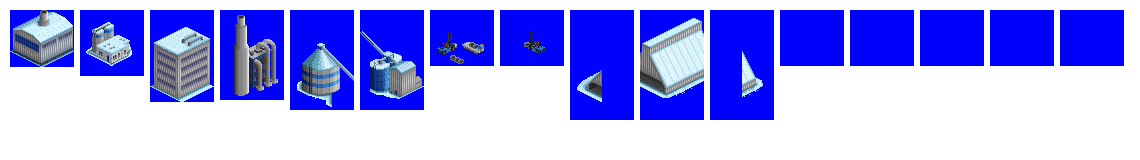
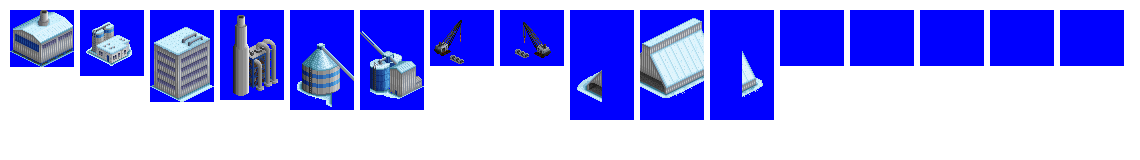
Feature: date sensitive graphics for Alumnium Plant (#4661)

Changed region(s): [[0.3684, 0.1562, 0.4912, 0.375], [0.3991, 0.125, 0.4298, 0.1875]]

diff --git a/src/industries/aluminium_plant.py b/src/industries/aluminium_plant.py
@@ -38,7 +38,8 @@ industry = Industry(id='aluminium_plant',
                     name='string(STR_IND_ALUMINIUM_PLANT)',
                     nearby_station_name='string(STR_STATION, string(STR_TOWN), string(STR_IND_ALUMINIUM_PLANT))',
                     fund_cost_multiplier='200',
-                    closure_msg='TTD_STR_NEWS_INDUSTRY_CLOSURE_SUPPLY_PROBLEMS')
+                    closure_msg='TTD_STR_NEWS_INDUSTRY_CLOSURE_SUPPLY_PROBLEMS',
+                    graphics_change_dates = [1942, 1980])
 
 industry.economy_variations['BASIC'].disabled = True
 
